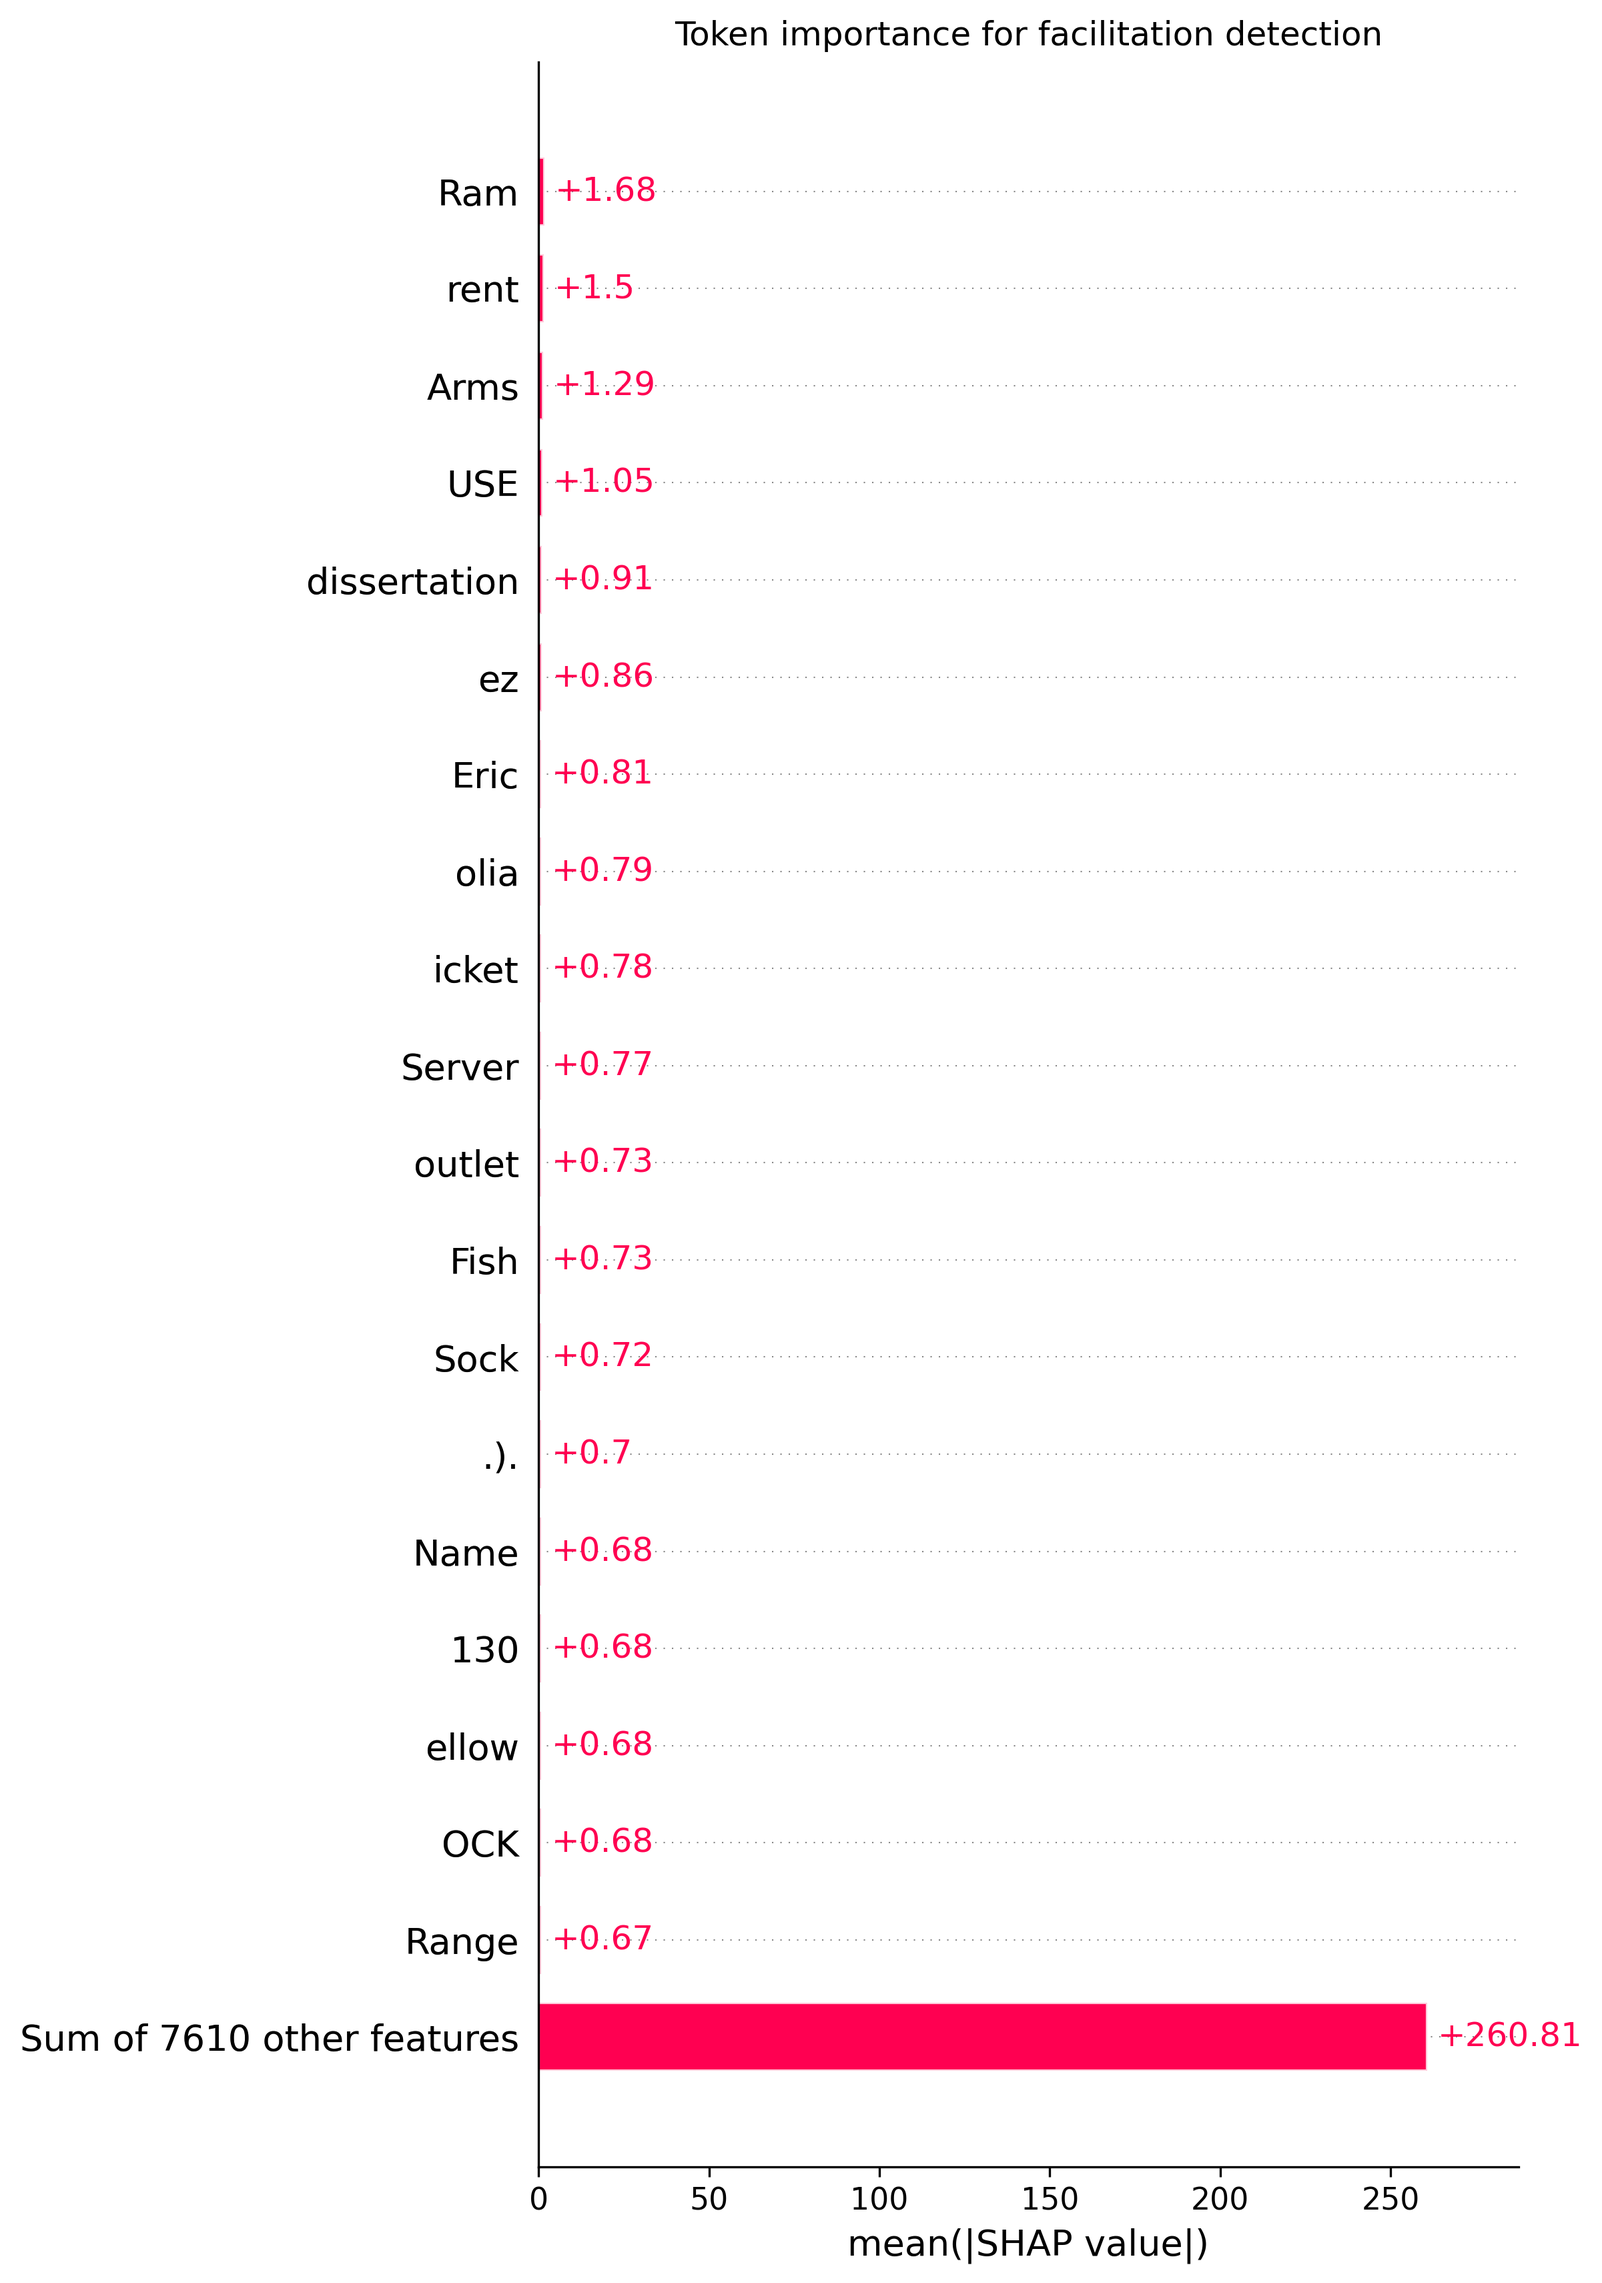
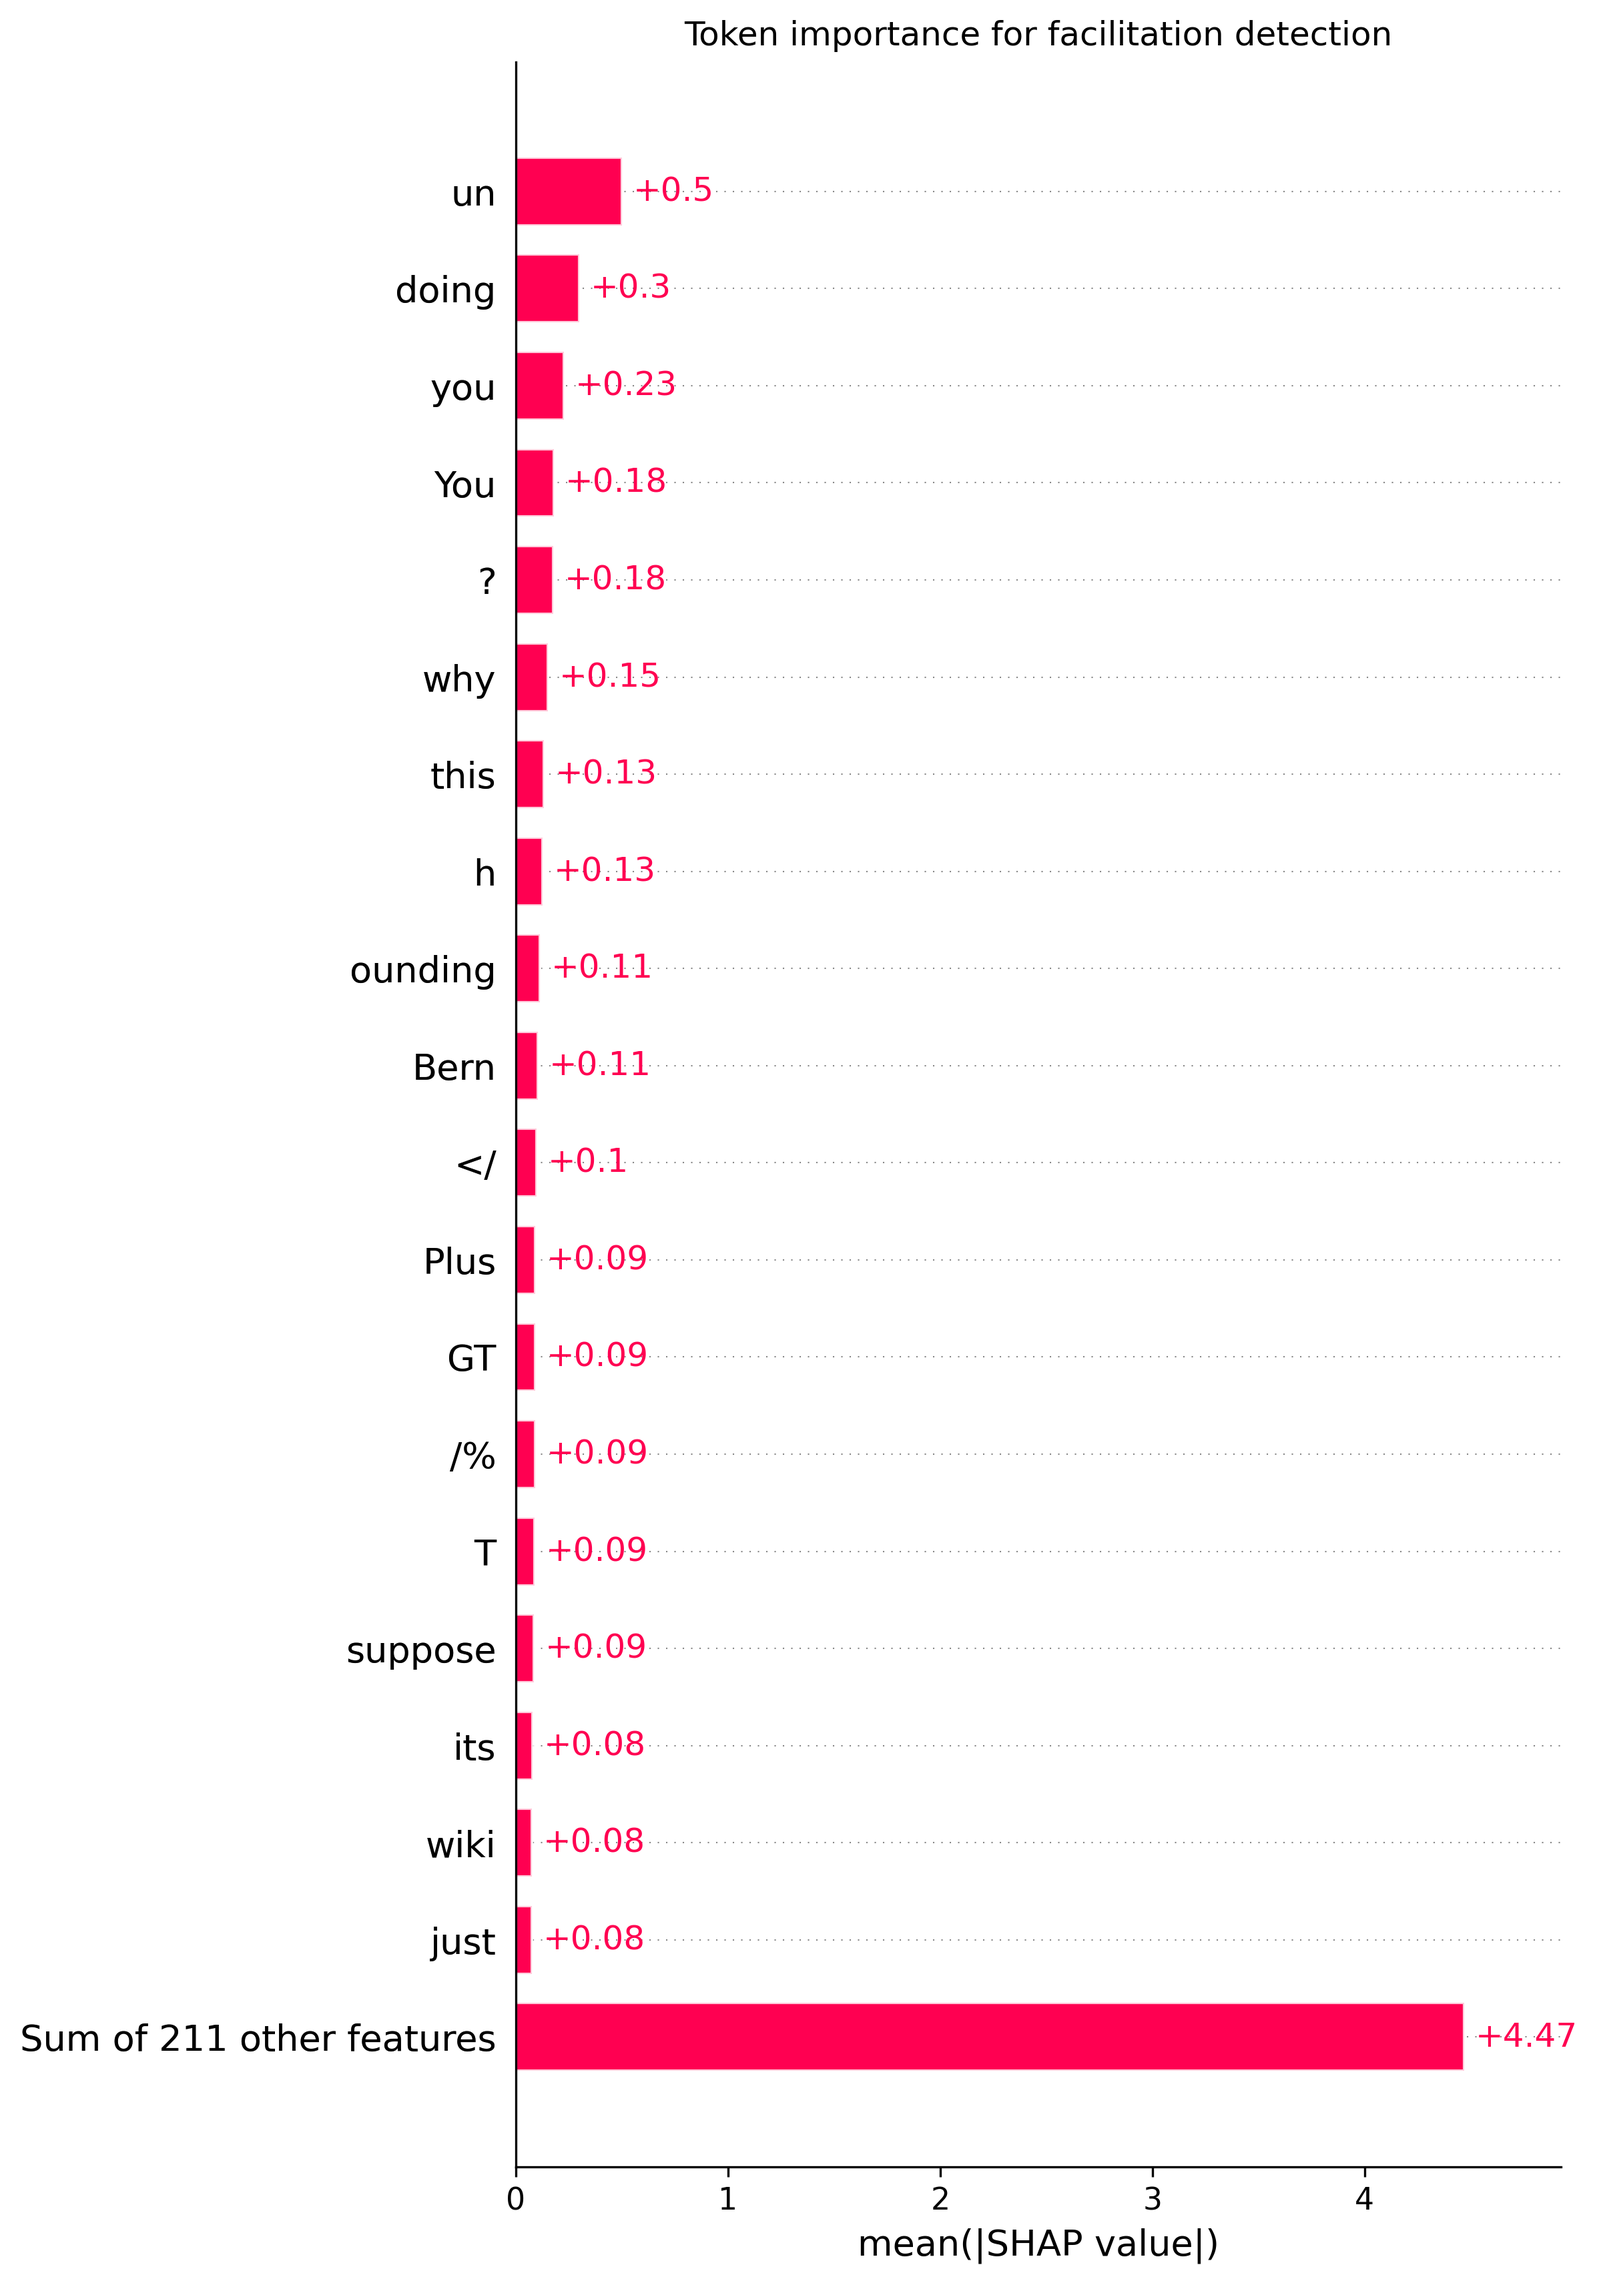
enforce word-level explanations

diff --git a/scripts/facilitation_analysis.py b/scripts/facilitation_analysis.py
@@ -175,10 +175,8 @@ def explain_model(
 
     print(f"Explaining {len(texts)} examples...")
 
-    model = (
-        transformers.AutoModelForSequenceClassification.from_pretrained(
-            model_dir, reference_compile=False, attn_implementation="eager"
-        )
+    model = transformers.AutoModelForSequenceClassification.from_pretrained(
+        model_dir, reference_compile=False, attn_implementation="eager"
     )
     tokenizer = transformers.AutoTokenizer.from_pretrained(model_dir)
     pipe = transformers.pipeline(
@@ -188,12 +186,11 @@ def explain_model(
         device=0 if torch.cuda.is_available() else -1,
         truncation=True,
         max_length=max_length,
-        top_k=None
+        top_k=None,
     )
-    pmodel = shap.models.TransformersPipeline(
-        pipe, rescale_to_logits=True
-    )
-    explainer = shap.Explainer(pmodel, tokenizer)
+    pmodel = shap.models.TransformersPipeline(pipe, rescale_to_logits=True)
+    masker = shap.maskers.Text(tokenizer, mask_token="[MASK]")
+    explainer = shap.Explainer(pmodel, masker)
     shap_values = explainer(texts)
     plot_data = shap_values[:, :, -1]
 
